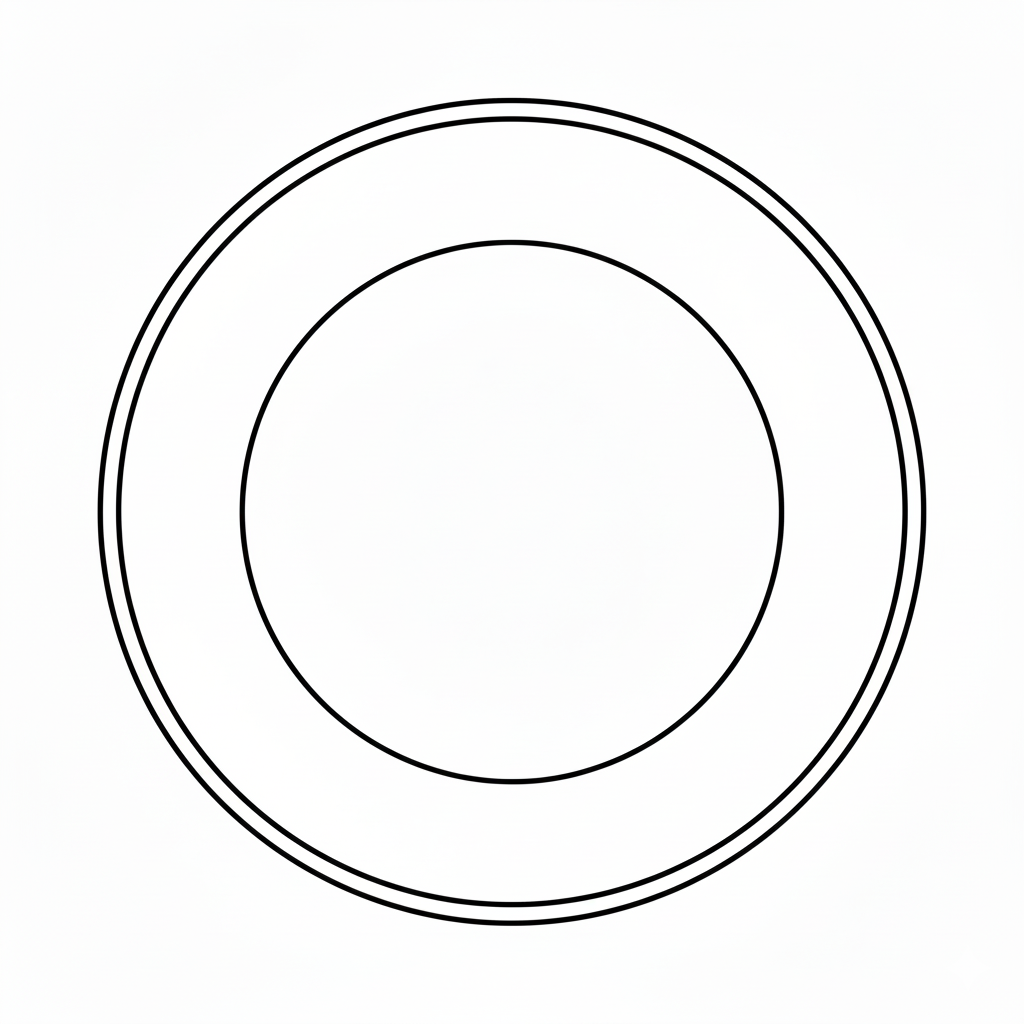
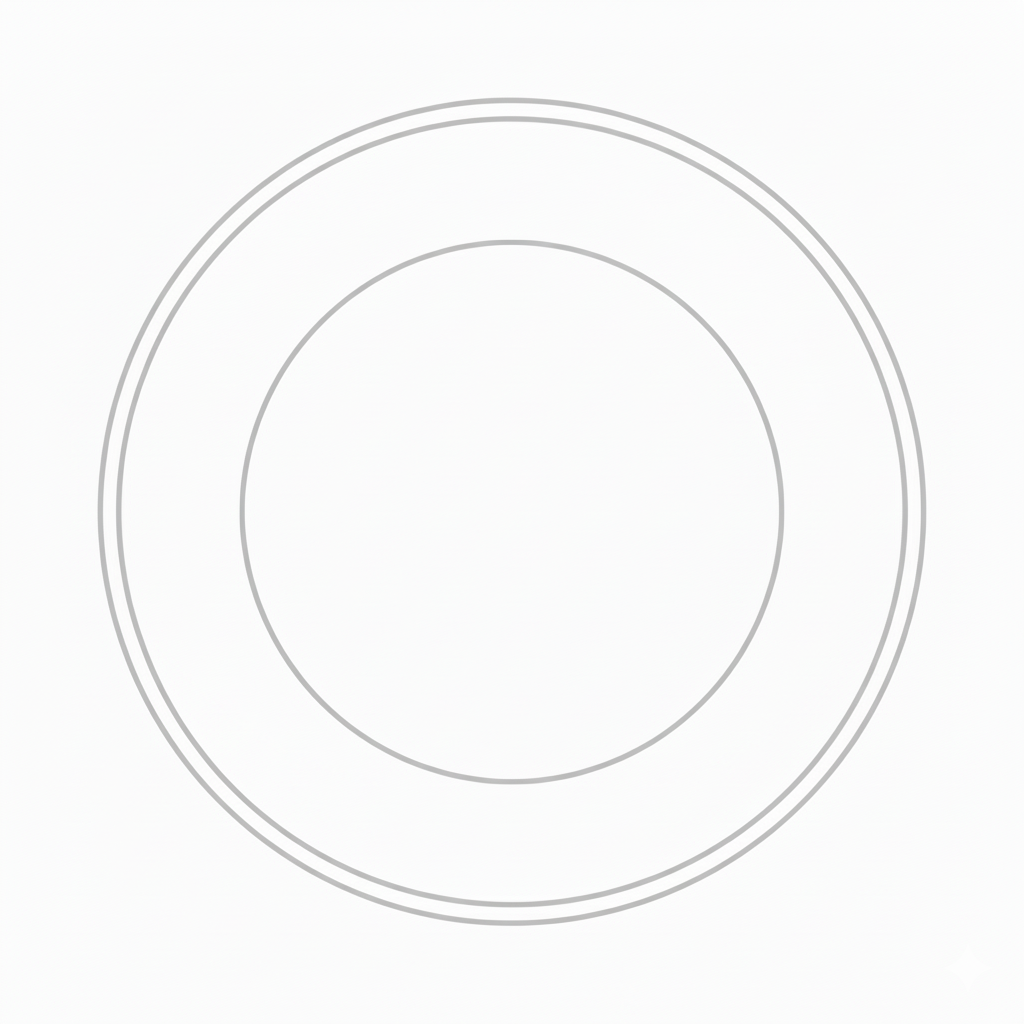
ベース画像をグレーにし置き換えた

diff --git a/aidea/templates/aidea/index.html b/aidea/templates/aidea/index.html
@@ -66,7 +66,7 @@
     <div class = "row">
         <div class="offset-1 col-4 offset-md-2 col-md-3">
           <button class="my-3" onclick="showModal(
-            '輪島塗について', 
+            '輪島塗', 
             '{% static "aidea/images/wazima5.jpg" %}', 
             '吾輩は猫である。名前はまだ無い。どこで生れたかとんと見当がつかぬ。何でも薄暗いじめじめした所でニャーニャー泣いていた事だけは記憶している。吾輩はここで始めて人間というものを見た。しかもあとで聞くとそれは書生という人間中で一番獰悪な種族であったそうだ。この書生というのは時々我々を捕えて煮て食うという話である。しかしその当時は何という考もなかったから別段恐しいとも思わなかった。',
             ['特徴１', '特徴２', '特徴３']
@@ -80,7 +80,7 @@
 
         <div class="offset-1 col-4 offset-md-2 col-md-3">
           <button class="my-3" onclick="showModal(
-            '会津塗のお椀について', 
+            '会津塗', 
             '{% static "aidea/images/aidu3.jpg" %}', 
             '吾輩は猫である。名前はまだ無い。どこで生れたかとんと見当がつかぬ。何でも薄暗いじめじめした所でニャーニャー泣いていた事だけは記憶している。吾輩はここで始めて人間というものを見た。しかもあとで聞くとそれは書生という人間中で一番獰悪な種族であったそうだ。この書生というのは時々我々を捕えて煮て食うという話である。しかしその当時は何という考もなかったから別段恐しいとも思わなかった。',
             ['特徴１', '特徴２', '特徴３']
@@ -96,7 +96,7 @@
     <div class="row">
         <div class="offset-1 col-4 offset-md-2 col-md-3">
           <button class="my-3" onclick="showModal(
-            '有田焼のお皿について', 
+            '有田焼', 
             '{% static "aidea/images/arita.webp" %}', 
             '吾輩は猫である。名前はまだ無い。どこで生れたかとんと見当がつかぬ。何でも薄暗いじめじめした所でニャーニャー泣いていた事だけは記憶している。吾輩はここで始めて人間というものを見た。しかもあとで聞くとそれは書生という人間中で一番獰悪な種族であったそうだ。この書生というのは時々我々を捕えて煮て食うという話である。しかしその当時は何という考もなかったから別段恐しいとも思わなかった。',
             ['特徴１', '特徴２', '特徴３']
@@ -109,7 +109,7 @@
         </div>
         <div class="offset-2 col-4 offset-md-2 col-md-3">
           <button class="my-3" onclick="showModal(
-            '九谷焼のお皿について', 
+            '九谷焼', 
             '{% static "aidea/images/kutani2.webp" %}', 
             '吾輩は猫である。名前はまだ無い。どこで生れたかとんと見当がつかぬ。何でも薄暗いじめじめした所でニャーニャー泣いていた事だけは記憶している。吾輩はここで始めて人間というものを見た。しかもあとで聞くとそれは書生という人間中で一番獰悪な種族であったそうだ。この書生というのは時々我々を捕えて煮て食うという話である。しかしその当時は何という考もなかったから別段恐しいとも思わなかった。',
             ['特徴１', '特徴２', '特徴３']
